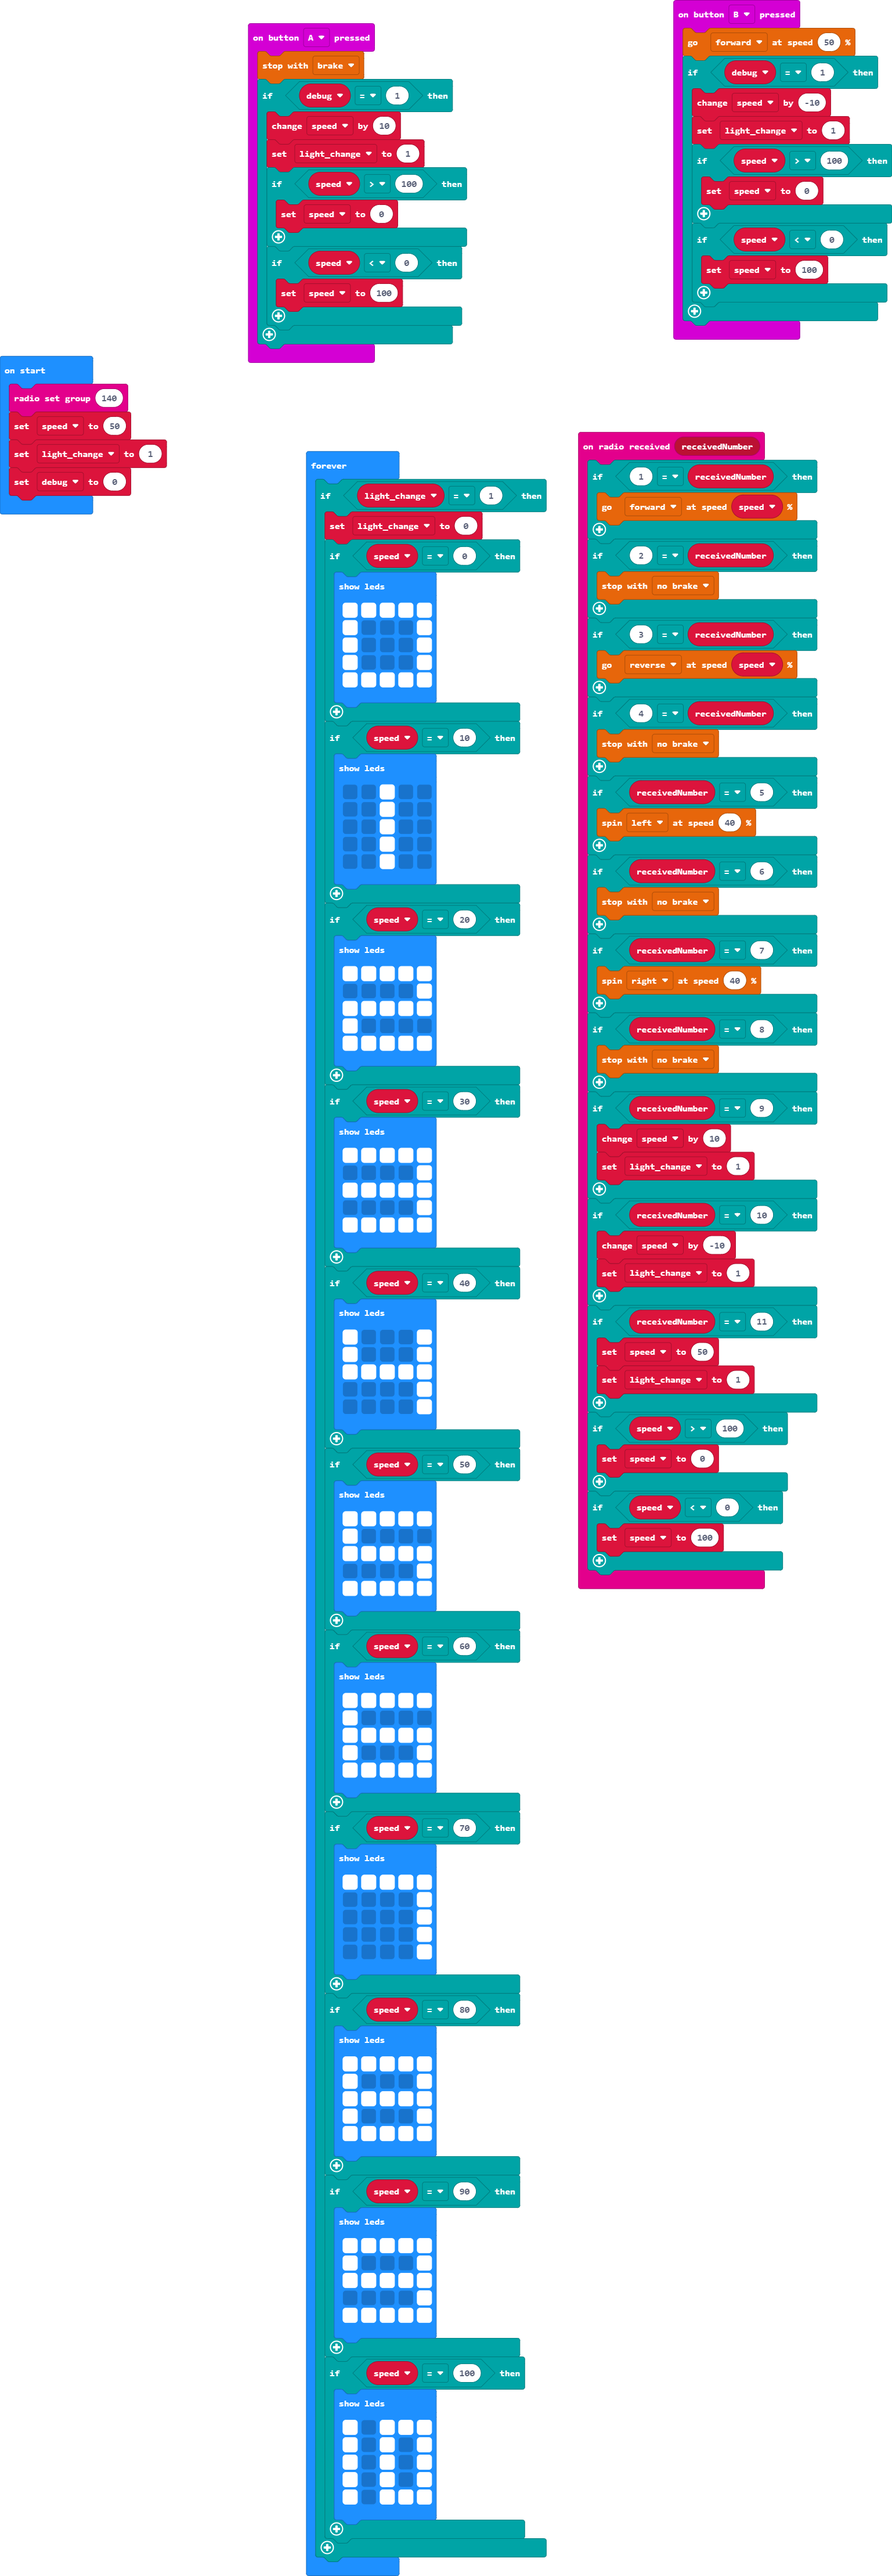
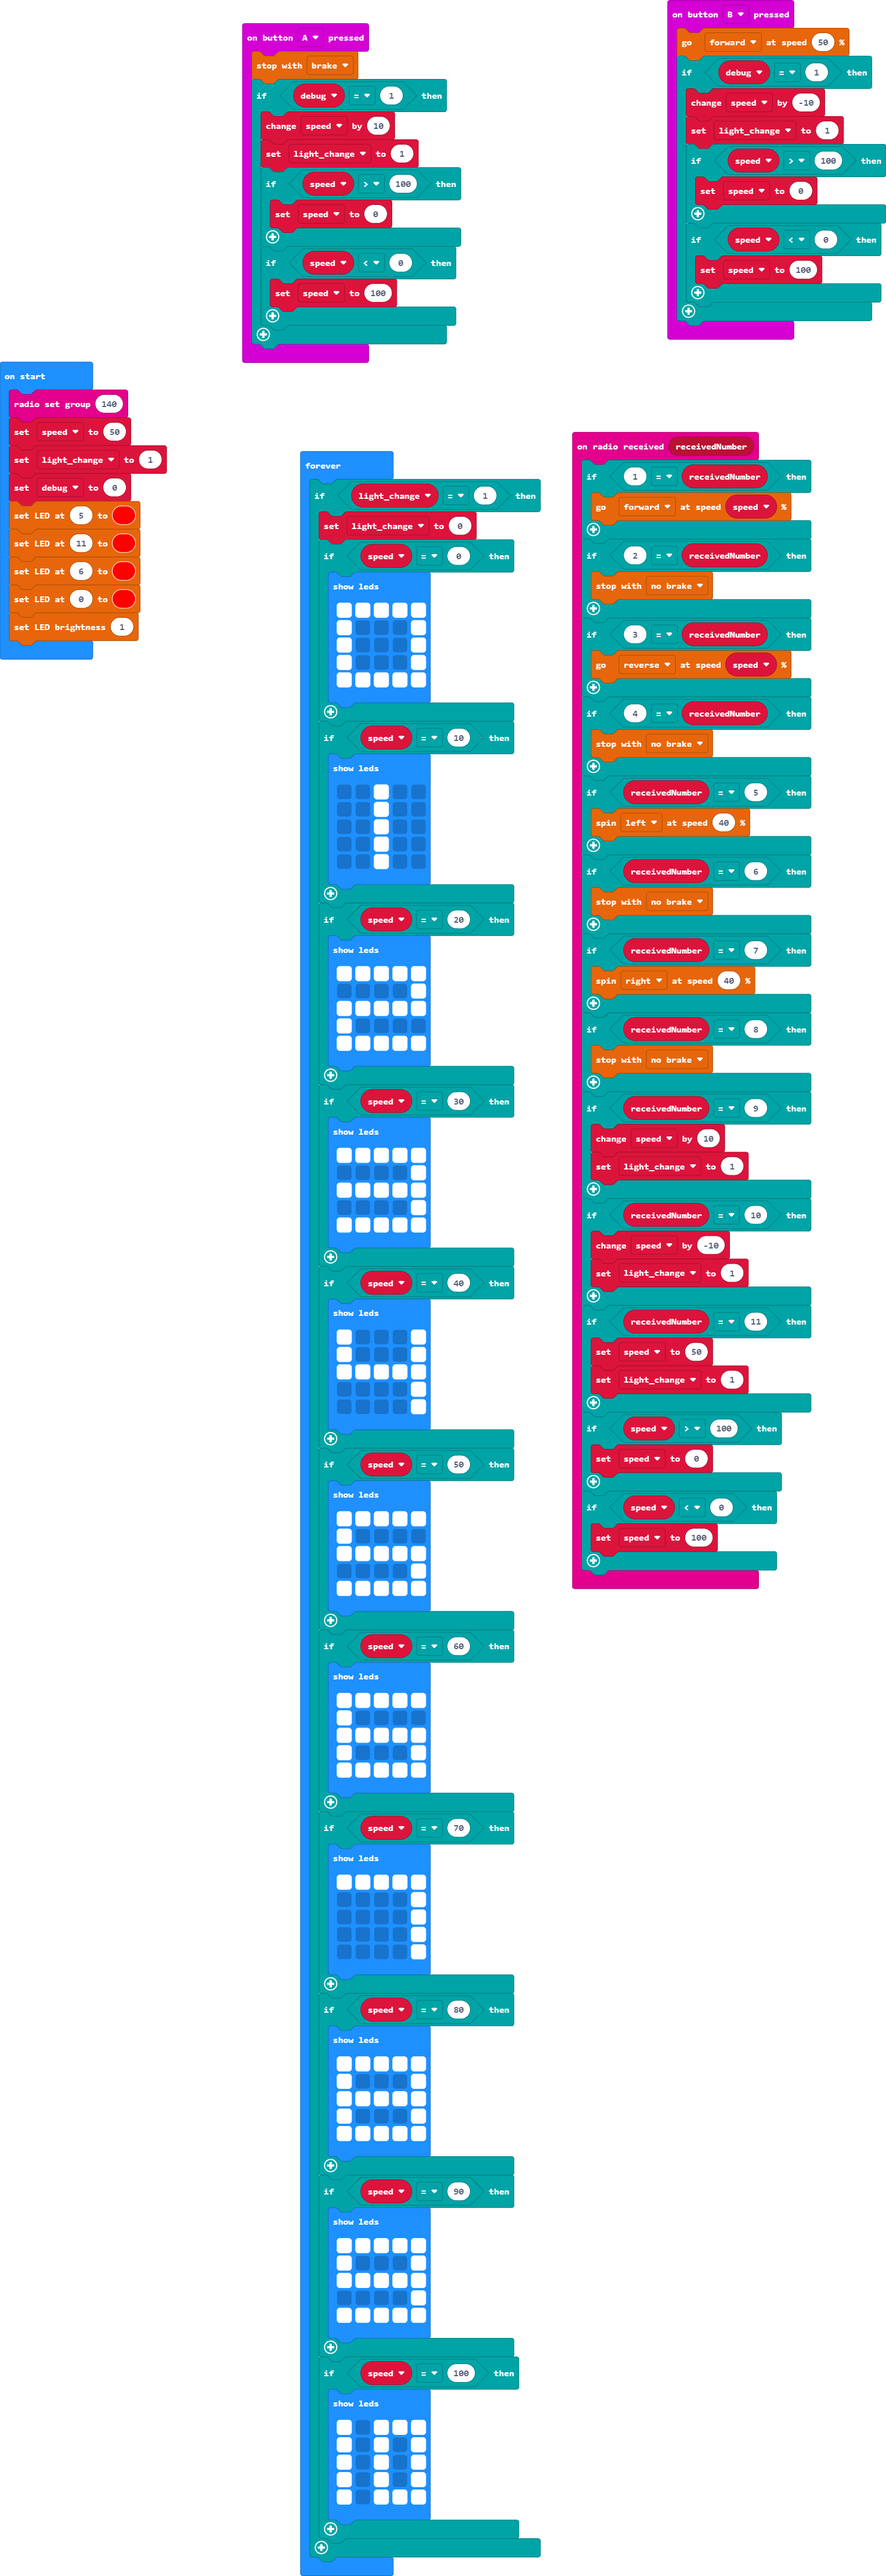
Added lights to car

diff --git a/main.ts b/main.ts
@@ -75,6 +75,11 @@ radio.setGroup(140)
 speed = 50
 light_change = 1
 debug = 0
+bitbot.setPixelColor(5, 0xFF0000)
+bitbot.setPixelColor(11, 0xFF0000)
+bitbot.setPixelColor(6, 0xFF0000)
+bitbot.setPixelColor(0, 0xFF0000)
+bitbot.ledBrightness(1)
 basic.forever(function () {
     if (light_change == 1) {
         light_change = 0

diff --git a/main.py b/main.py
@@ -33,7 +33,6 @@ radio.on_received_number(on_received_number)
 
 def on_button_pressed_a():
     global speed, light_change
-    debug = 0
     bitbot.stop(BBStopMode.BRAKE)
     if debug == 1:
         speed += 10
@@ -44,11 +43,30 @@ def on_button_pressed_a():
             speed = 100
 input.on_button_pressed(Button.A, on_button_pressed_a)
 
+def on_button_pressed_b():
+    global speed, light_change
+    bitbot.go(BBDirection.FORWARD, 50)
+    if debug == 1:
+        speed += -10
+        light_change = 1
+        if speed > 100:
+            speed = 0
+        if speed < 0:
+            speed = 100
+input.on_button_pressed(Button.B, on_button_pressed_b)
+
+debug = 0
 light_change = 0
 speed = 0
 radio.set_group(140)
 speed = 50
 light_change = 1
+debug = 0
+bitbot.set_pixel_color(5, 0xFF0000)
+bitbot.set_pixel_color(11, 0xFF0000)
+bitbot.set_pixel_color(6, 0xFF0000)
+bitbot.set_pixel_color(0, 0xFF0000)
+bitbot.led_brightness(1)
 
 def on_forever():
     global light_change
